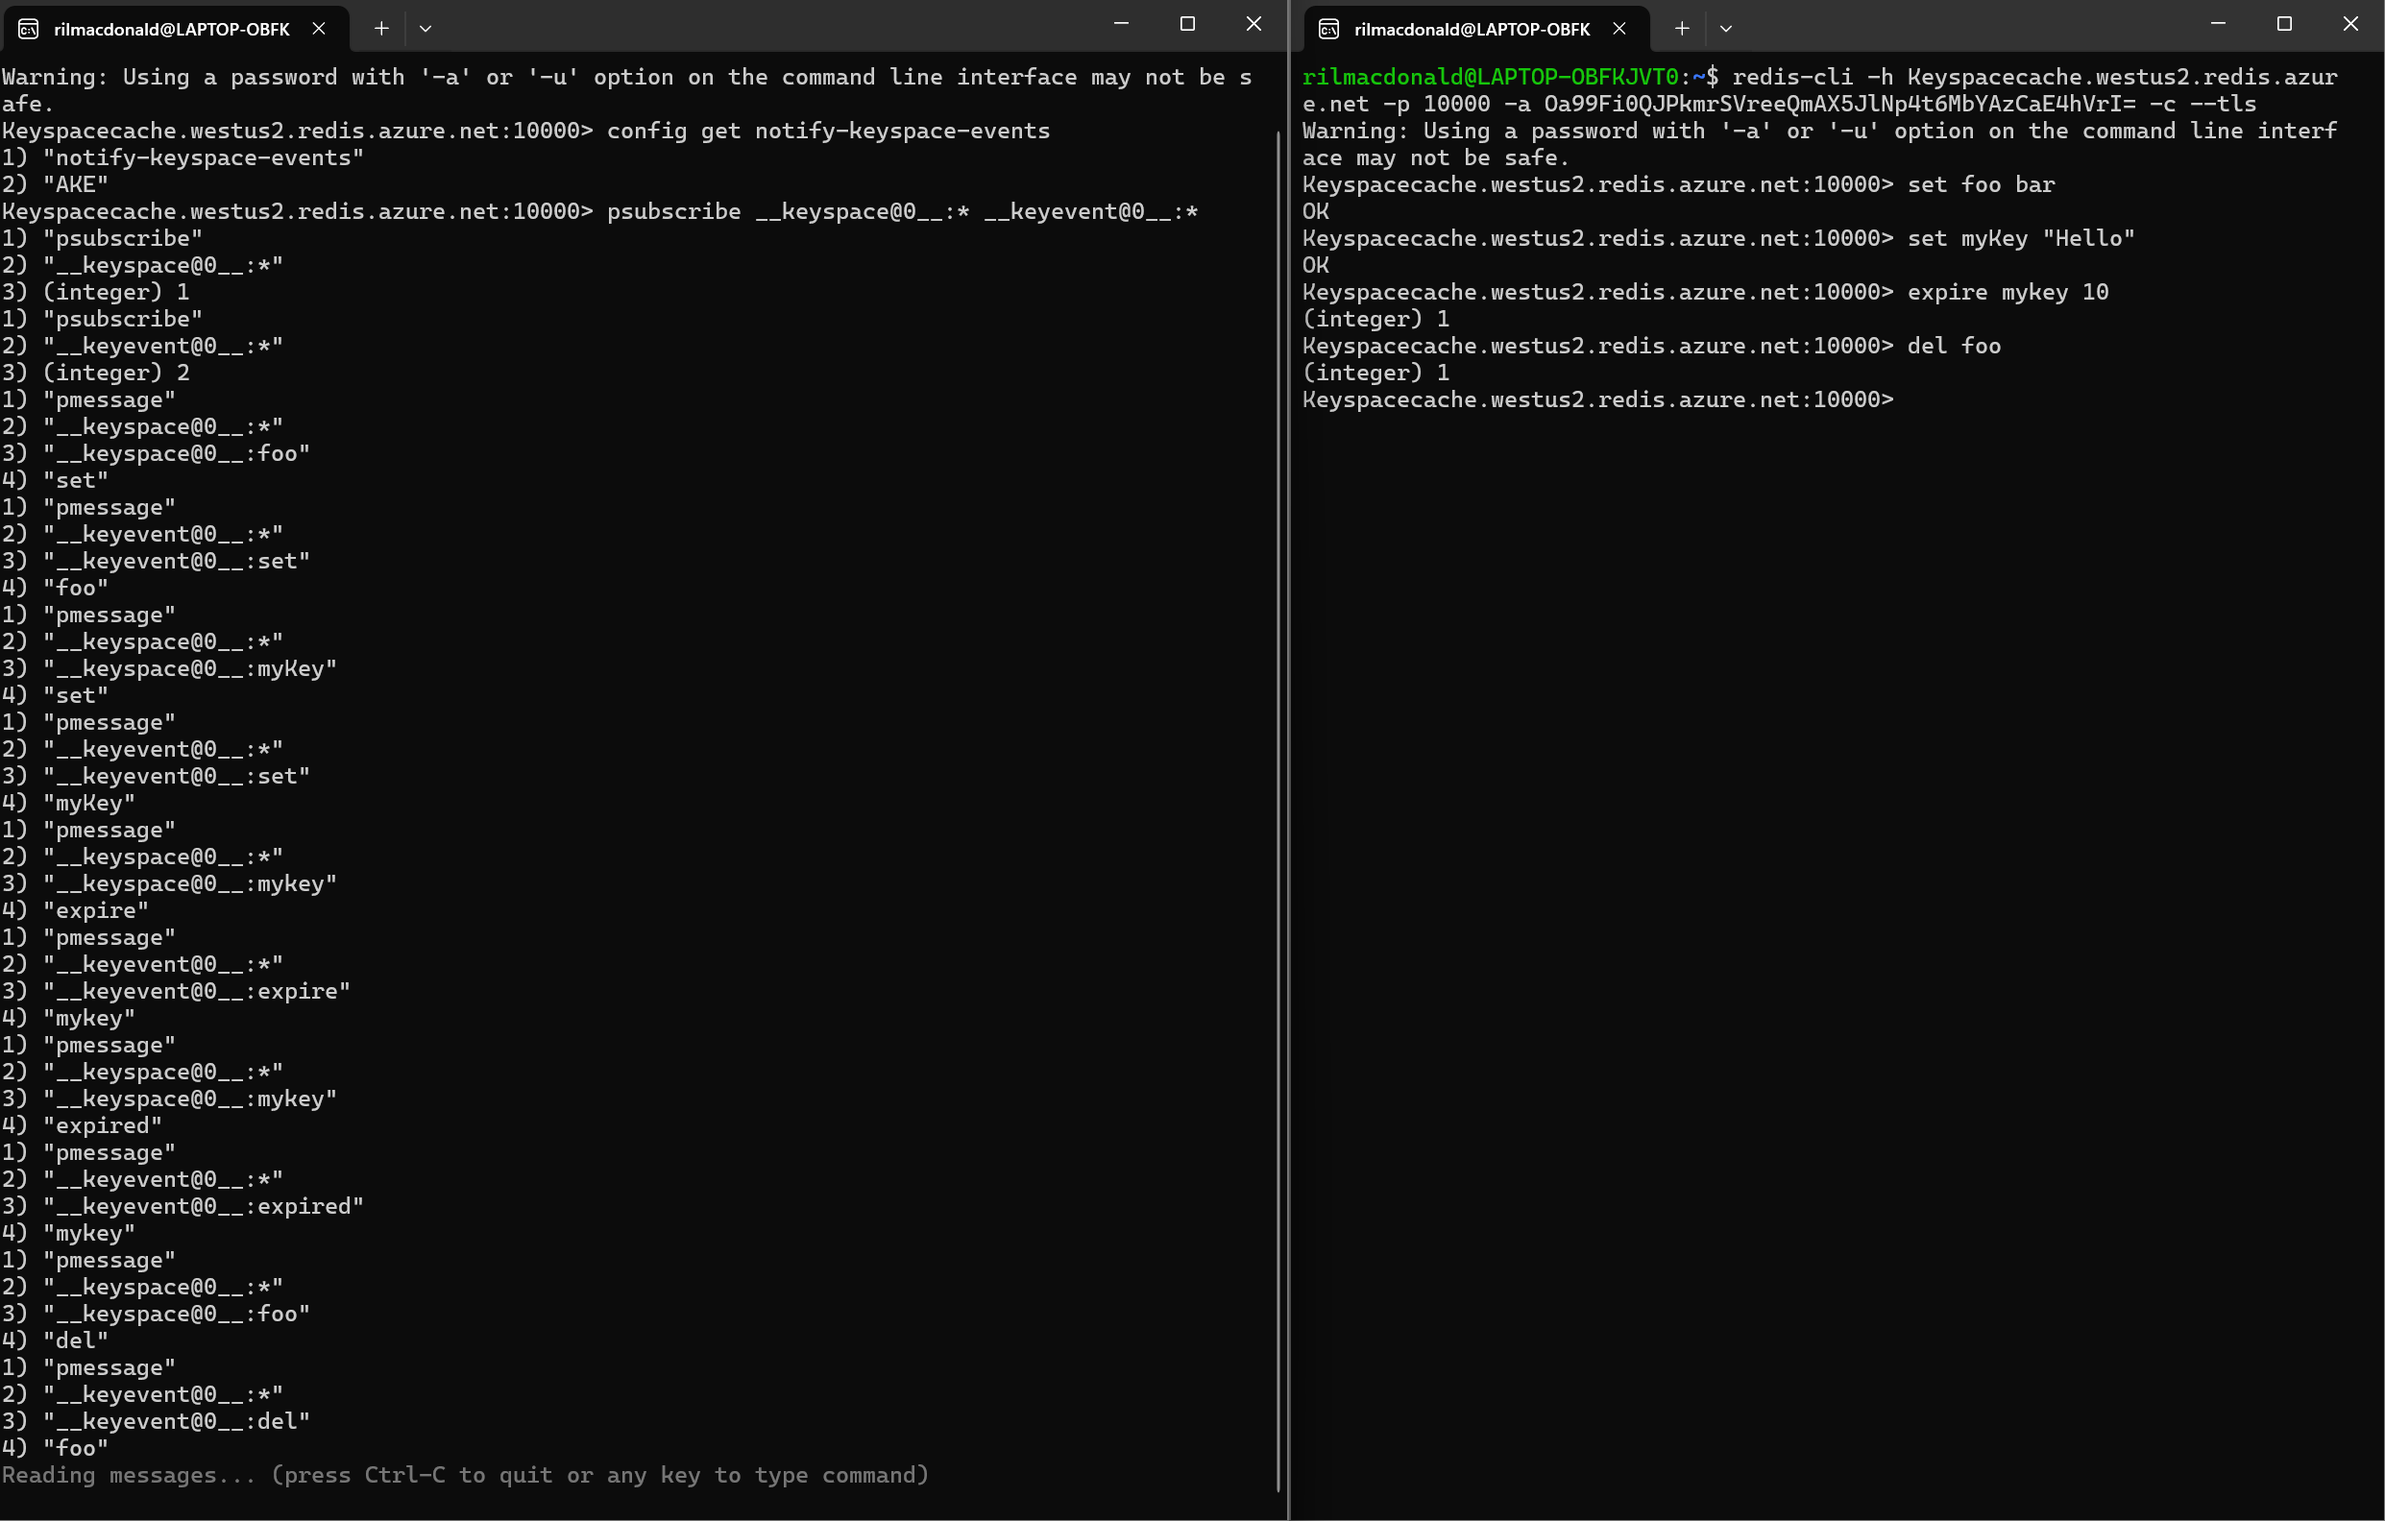
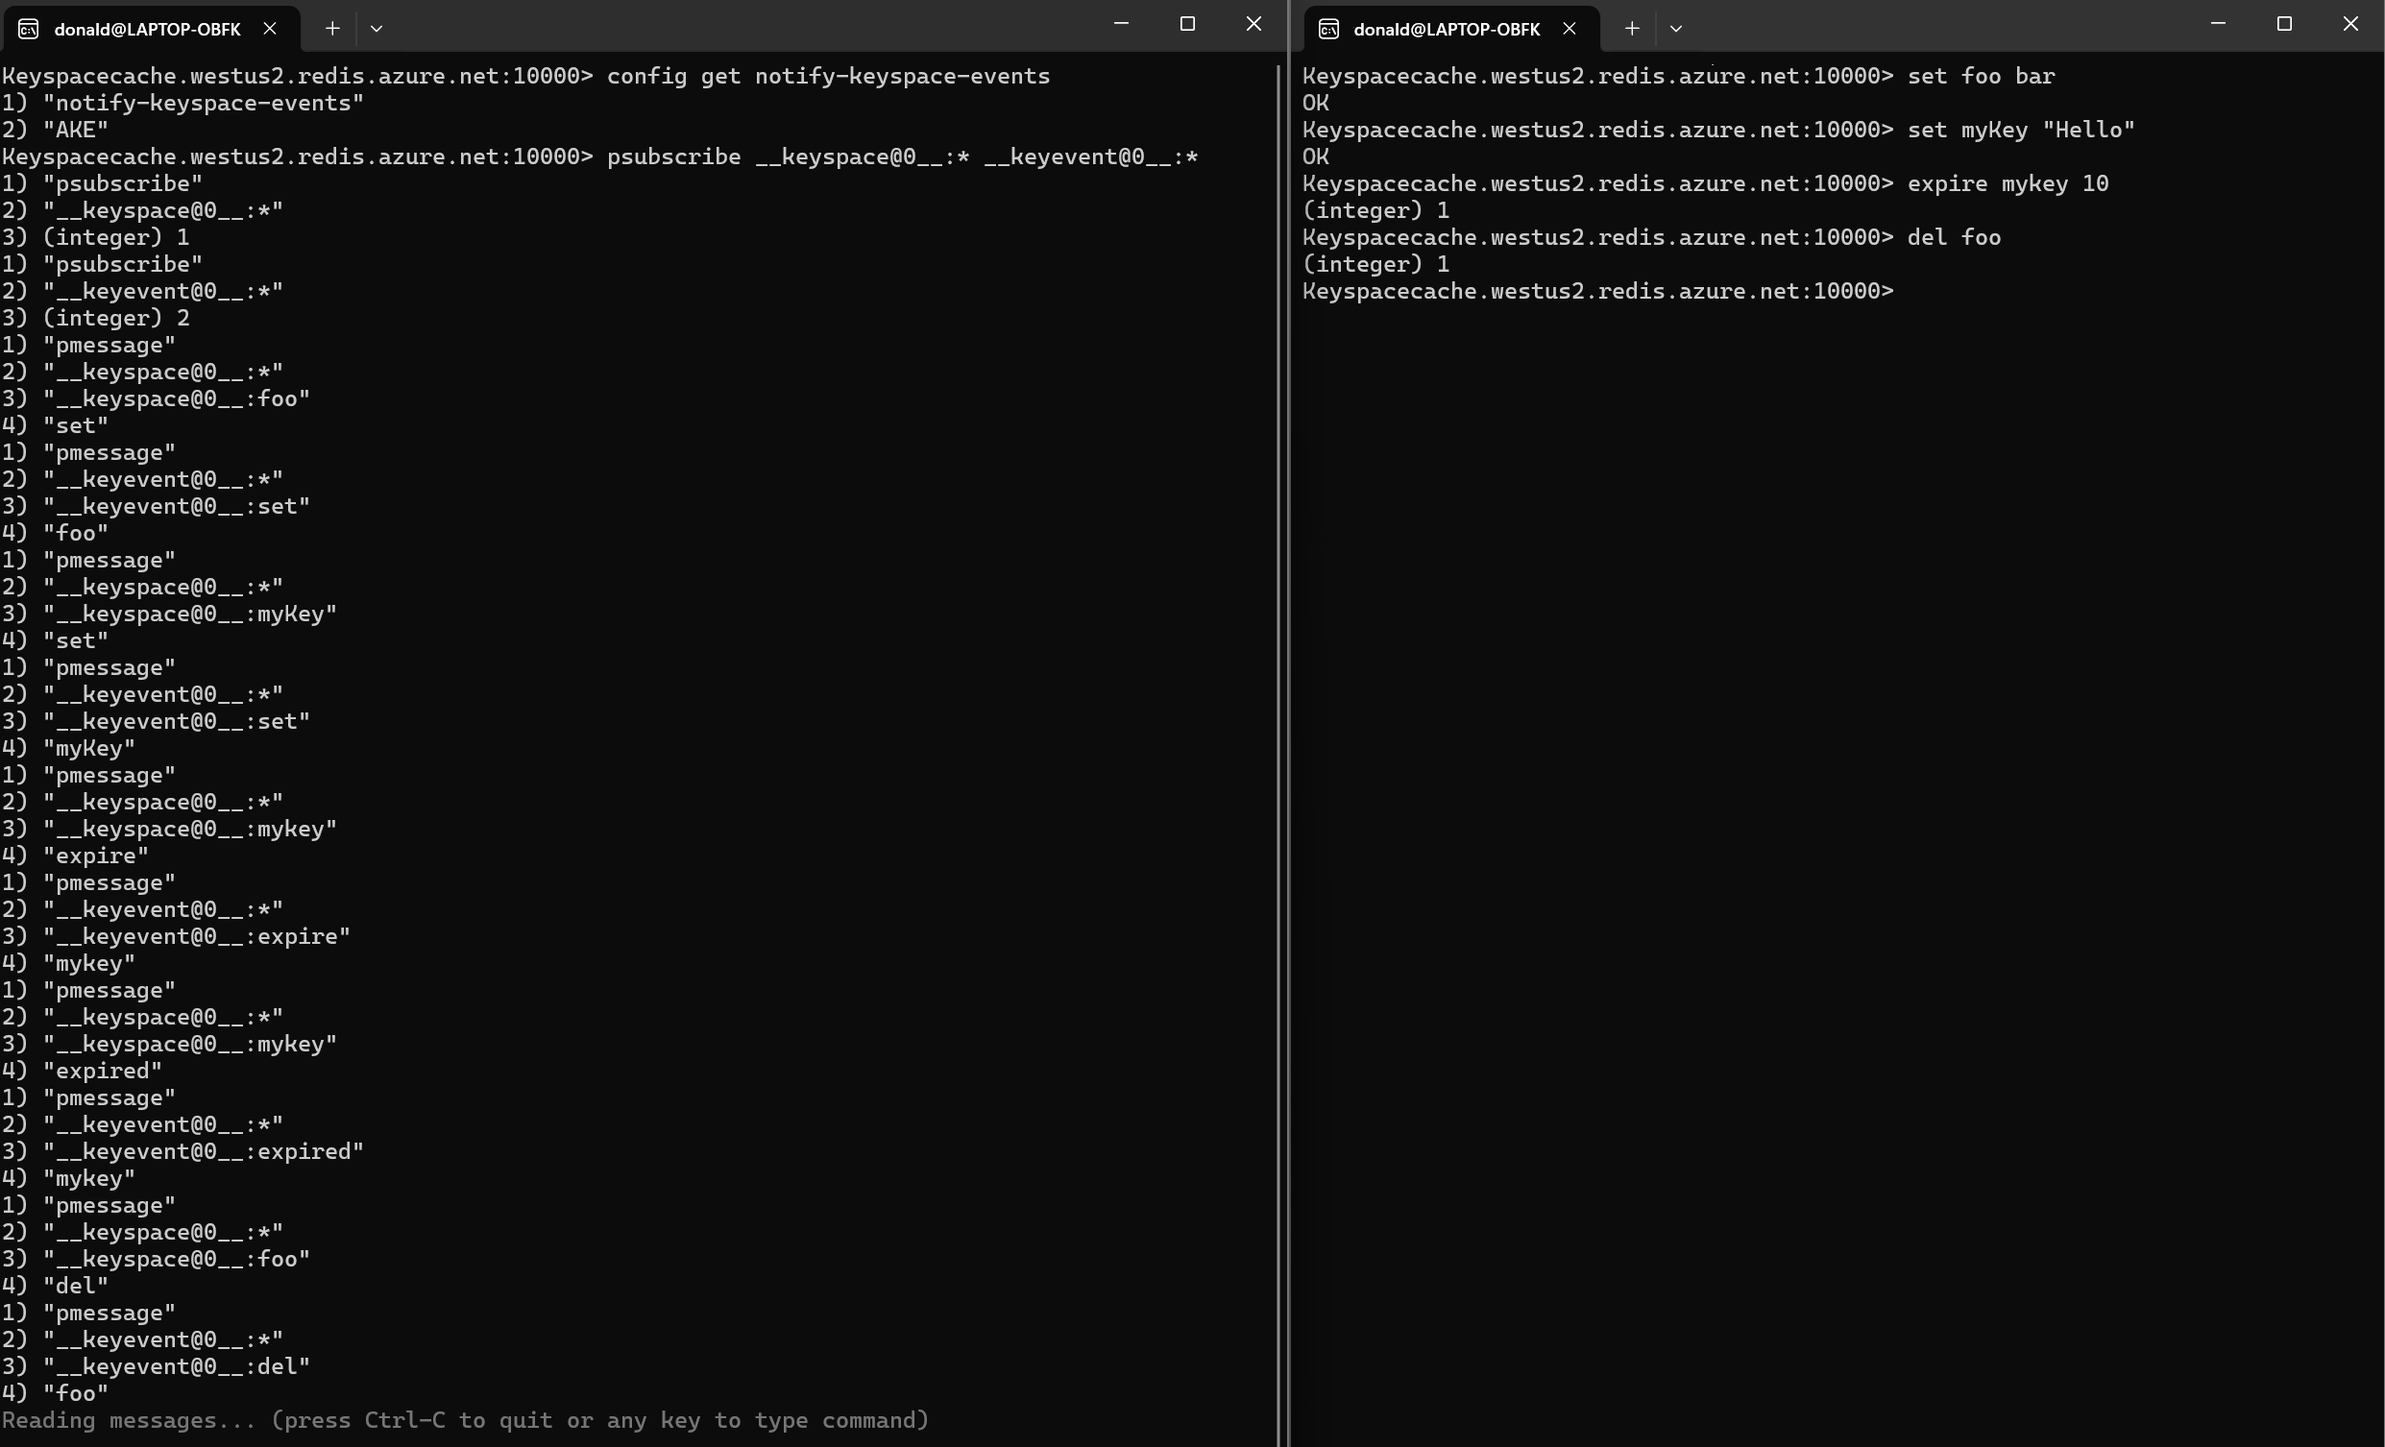
wip

Changed region(s): [[0.0, 0.0, 1.0, 1.0], [0.4342, 0.0936, 0.4962, 0.1559]]

diff --git a/articles/redis/how-to-redis-access-data.md b/articles/redis/how-to-redis-access-data.md
@@ -35,7 +35,7 @@ For instructions to configure access to Azure Managed Redis with Redis Insight, 
 
 ### Connect to Azure Managed Redis with Redis Insight
 
-After access is configured, connect to your Azure Managed Redis instance in Redis Insight by following these steps:
+After Microsoft Entra ID access is configured, connect to an Azure Managed Redis instance in Redis Insight by following these steps:
 
 1. In Redis Insight, on the **Redis Databases** tab, select **+ Connect existing database**.
 1. In the **Add database** window, select **Azure Managed Redis**.
@@ -44,9 +44,9 @@ After access is configured, connect to your Azure Managed Redis instance in Redi
 1. Select the Azure Managed Redis instance (database) that you want to connect to, and then select **Add database**. You can select multiple databases to connect to at the same time.
 1. Repeat the preceding steps to add Azure Managed Redis instances as needed in the same or another Azure subscription.
 
-After you add an Azure Managed Redis instance, you can select it from the list of Redis databases in Redis Insight and start issuing commands and viewing data.
+* After you add an Azure Managed Redis instance, you can select it from the list of Redis databases in Redis Insight and start issuing commands and viewing data.
 
-To access the built-in CLI, select (**>_ CLI**) at the bottom of the screen for the selected database. 
+* To access the built-in CLI, select (**>_ CLI**) at the bottom of the screen for the selected database. 
 
 ## redis-cli command-line tool
 

diff --git a/articles/redis/enable-redis-keyspace-notifications.md b/articles/redis/enable-redis-keyspace-notifications.md
@@ -141,6 +141,8 @@ In the subscriber terminal, choose the subscription pattern that matches the eve
     SUBSCRIBE __keyspace@0__:mykey
     ```
 
+In the following screenshot, the subscriber terminal is on the left, subscribed to all events and all keys, so it receives notifications for all events that occur in the cache.
+
 :::image type="content" source="media/enable-redis-keyspace-notifications/keyspace-notification-redis-cli.png" alt-text="Redis CLI session showing keyspace notification subscription output." lightbox="media/enable-redis-keyspace-notifications/keyspace-notification-redis-cli.png":::
 
 ## Test notifications
